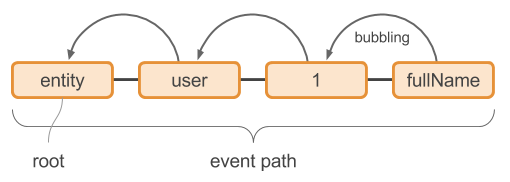
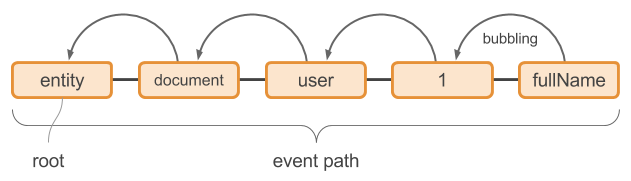
adds proof-reading fixes

diff --git a/src/universal-events.md b/src/universal-events.md
@@ -8,7 +8,7 @@ Universal Events
 |:-------|:----------|
 | `npm install giant-event` | `$event` |
 
-In a system of interacting components, inversion of control, and separation of concerns are cornerstones of scalability and clarity of design. A mechanism through which self-contained units listen to shared structures to which other units may communicate changes in their state, implements both features. In Giant, these shared structures are called *event spaces*, traversed by *events* along *paths*, in a process called *bubbling*.
+In a system of interacting components, inversion of control, and separation of concerns are cornerstones of scalability and clarity of design. A mechanism through which self-contained components listen to shared structures to which other components may communicate changes in their state, implements both features. In Giant, these shared structures are called *event spaces*, traversed by *events* along *paths*, in a process called *bubbling*.
 
 The purpose of Giant's event module is to generalize eventing to any application component or data structure that can be expressed through or mapped to a path. Drawing on analogy with the DOM, parent-children relationships between nodes define such a path.
 
@@ -16,10 +16,10 @@ Other examples are:
 
 - application *routes*, such as `'users/john-smith'`, or `'articles/weather/04042015'`
 - API resources, such as `'session/1234abcd'`
-- internal datastore paths, such as `'user/1/fullName'`
+- internal datastore keys, such as `'user/1/fullName'`
 - file paths such as `'images/logo.png'`
 
-Unlike DOM events, paths and events in Giant are not tied to the structures they represent. An event may be triggered on a path even when there is nothing corresponding to it. This feature comes handy when the purpose of an event is meant to signal the absence of something, which would not be possible in the DOM for instance.
+Unlike DOM events, paths and events in Giant are not tied to the structures they represent. An event may be triggered on a path even when there is nothing corresponding to it. This feature comes handy when the purpose of an event is to signal the absence of something, which would not be possible in the DOM for instance.
 
 ![Event Bubbling](https://raw.githubusercontent.com/giantjs/giant-developer-guide/master/images/Event%20Bubbling.png)
 
@@ -43,7 +43,7 @@ The event space is the structure in which events are triggered and listened to. 
 
 Giant introduces a general purpose event space instance: `$event.eventSpace`. Unless we expect substantial number of subscriptions to be associated with a specific application component, such as entities or widgets, this basic event space will be sufficient for triggering events in. Otherwise we'll need a new `EventSpace` instance to be created for such components, eg. `$entity.entityEventSpace`, or `$widget.widgetEventSpace` for entities and widgets, respectively.
 
-> It's a good idea to have the first (root) key in an event path identify the component, eg. 'entity' in `'entity>user>1>fullName'`, to make sure event paths are unique within a shared event space.
+> It's a good idea to have the first (root) key in an event path identify the component, eg. 'entity' in `'entity>document>user>1>fullName'`, to make sure event paths are unique within a shared event space.
 
 Event
 -----
